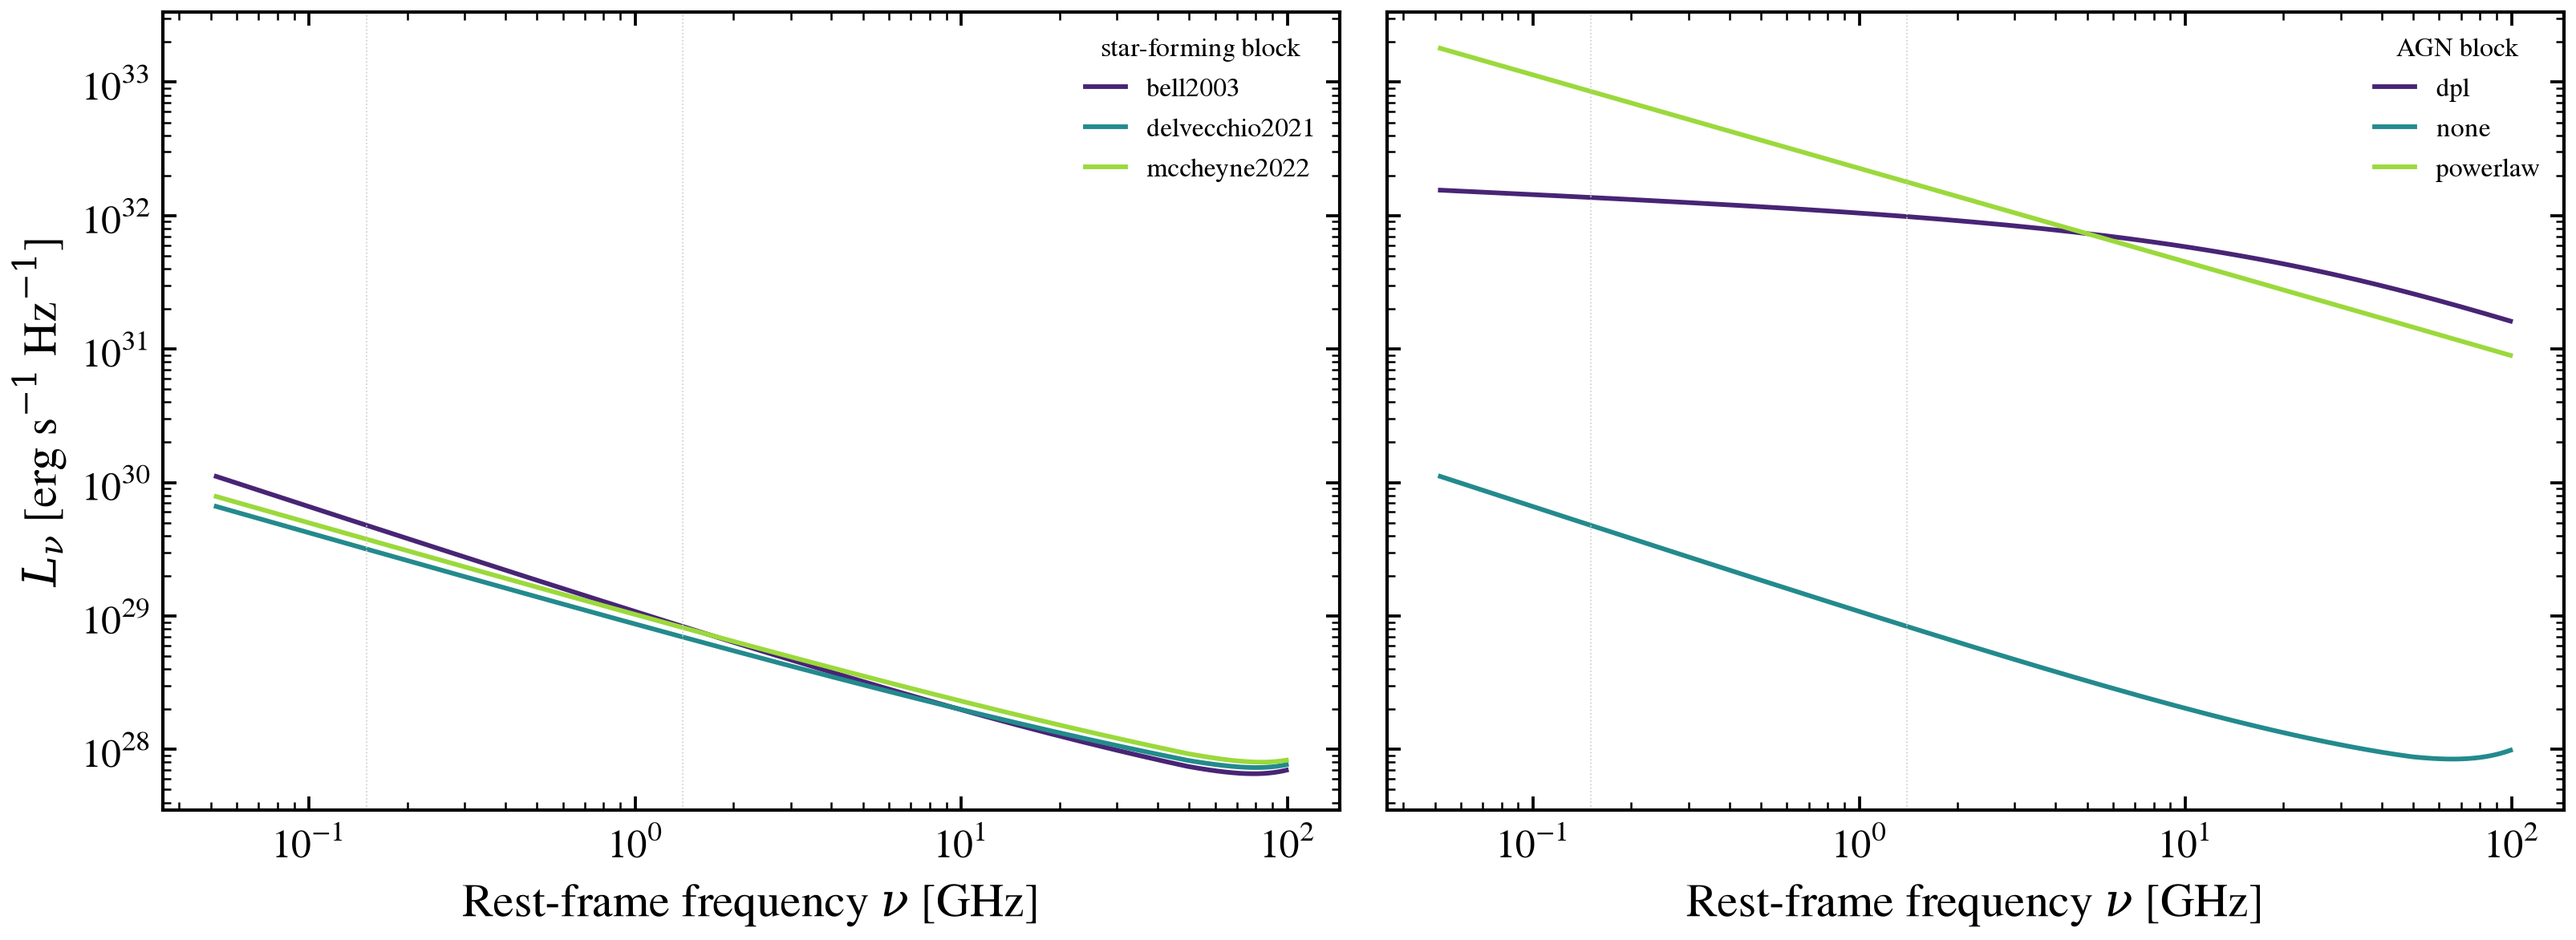
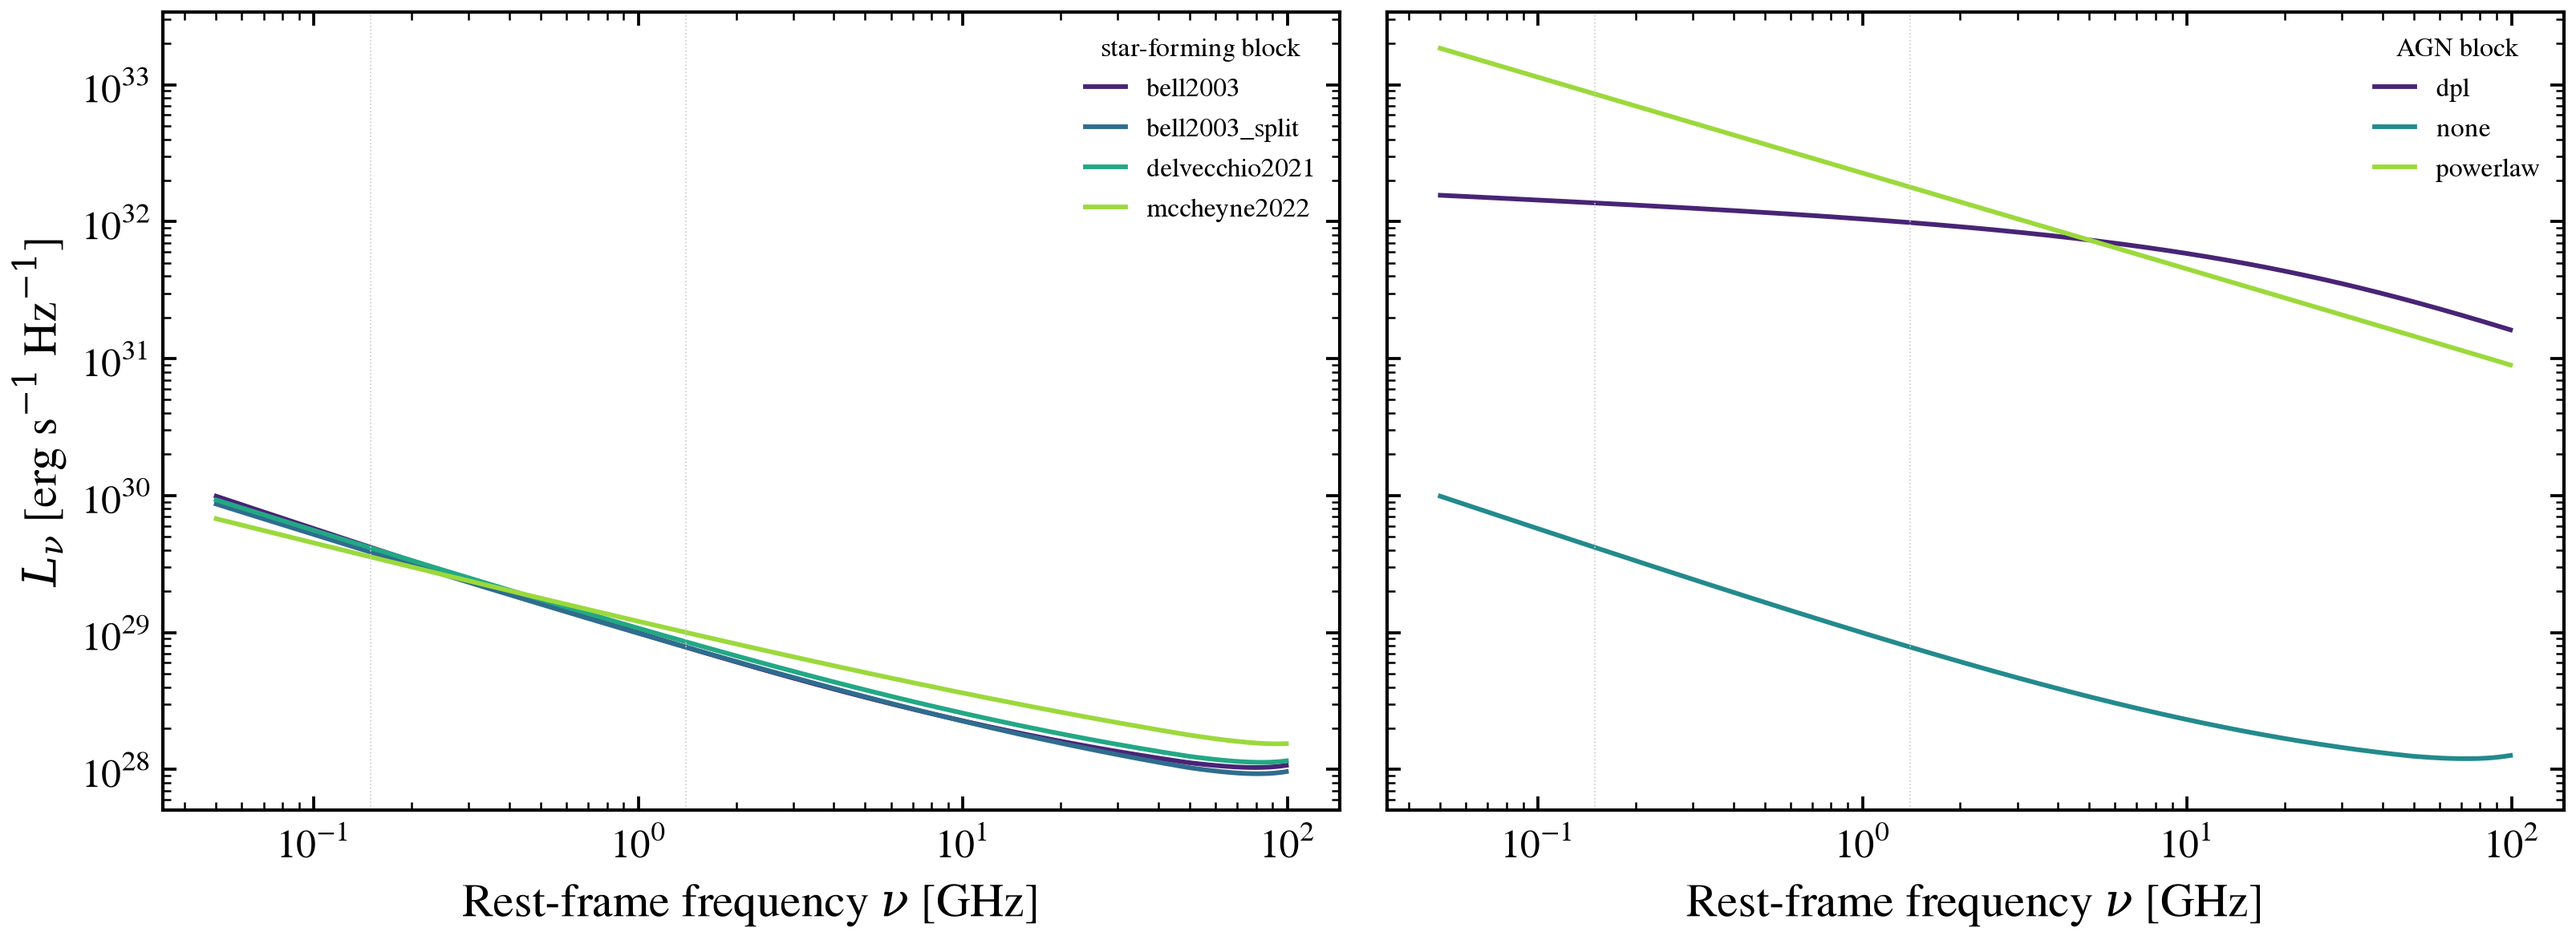
docs(gallery): regenerate the radio family comparison from the revised example
The example's prose and the calibrations it plots changed (domain hold, Delvecchio
alpha 0.75, McCheyne pivot 10.45), so the committed gallery render is regenerated with
tools/regen_gallery.py.

Claude-Session: https://claude.ai/code/session_01FFeGU64fvX6EwXYK28WHew

diff --git a/docs/auto_examples/radio/plot_radio_model_family_compare.py b/docs/auto_examples/radio/plot_radio_model_family_compare.py
@@ -4,17 +4,25 @@ Radio blocks: which q_IR calibration, and which AGN synchrotron shape
 
 The radio group is two independent choices — a star-forming block tied to the
 FIR-radio correlation, and an AGN block — so this compares them one at a time
-on the same galaxy.
+on the same galaxy (a constant-SFH galaxy with log total mass 10.5 at z = 0.05).
 
-(Left) The three q_IR calibrations, with AGN radio off. They disagree most
-where the correlation is least constrained: ~50% at 150 MHz, the LOFAR band
-that ``mccheyne2022`` was fit in, converging to a few percent by 10 GHz. The
-mass- and redshift-dependent calibrations sit below the fixed-q one for this
-galaxy, which is the whole point of preferring them.
+(Left) The four star-forming blocks, with AGN radio off, normalized to
+``bell2003``. The ``bell2003_split`` curve is the AGNfitter-rX split and is not
+quoted. ``delvecchio2021`` is 0.88, 1.09 and 1.21 times ``bell2003`` at
+150 MHz, 1.4 GHz and 10 GHz. ``mccheyne2022`` is 0.78, 1.17 and 1.48 times it
+at the same frequencies. The two mass- and redshift-dependent calibrations sit
+below the fixed-q one at 150 MHz and above it at 1.4 GHz and 10 GHz. Their
+largest-to-smallest ratio across the three total-q blocks (``bell2003``,
+``delvecchio2021``, ``mccheyne2022``) is 29 % at 150 MHz, 17 % at 1.4 GHz and 49 % at
+10 GHz, so the spread is largest at the high-frequency end.
 
-(Right) The AGN blocks, on a radio-loud AGN. ``dpl`` bends — it is a broken
-double power-law with an exponential aging cutoff — while ``powerlaw`` keeps
-one slope, so they separate toward high frequency rather than in normalization.
+(Right) The AGN blocks, on a radio-loud AGN (``loudness`` = 2) with ``bell2003``
+star formation. ``dpl`` bends: it is a broken double power law with an
+exponential synchrotron-aging cutoff. ``powerlaw`` keeps one slope. The two
+cross near 5 GHz, where their ratio is 1.00. Below that ``dpl`` is lower (0.16
+at 150 MHz, 0.55 at 1.4 GHz) and above it higher (1.30 at 10 GHz, 1.81 at
+100 GHz). The AGN block therefore changes the spectral shape, not only the
+normalization.
 ``none`` is star-forming synchrotron alone.
 
 ``loudness`` is ``log10(L_5GHz / L_B)``, so 0 is the radio-quiet boundary and
@@ -52,7 +60,7 @@ DUST = {
 }
 # dale2014_cigale: this example enables the radio component, and plain
 # dale2014 embeds its own SF radio continuum — the pair is refused at
-# build as a double-count (#1970).
+# build as a double-count.
 DUST_EMISSION = {"type": "dale2014_cigale", "all_params": tengri.Fixed(tengri.DEFAULT)}
 AGN = {
     "type": "composable",

diff --git a/docs/auto_examples/radio/plot_radio_model_family_compare.rst b/docs/auto_examples/radio/plot_radio_model_family_compare.rst
@@ -23,17 +23,25 @@ Radio blocks: which q_IR calibration, and which AGN synchrotron shape
 
 The radio group is two independent choices — a star-forming block tied to the
 FIR-radio correlation, and an AGN block — so this compares them one at a time
-on the same galaxy.
+on the same galaxy (a constant-SFH galaxy with log total mass 10.5 at z = 0.05).
 
-(Left) The three q_IR calibrations, with AGN radio off. They disagree most
-where the correlation is least constrained: ~50% at 150 MHz, the LOFAR band
-that ``mccheyne2022`` was fit in, converging to a few percent by 10 GHz. The
-mass- and redshift-dependent calibrations sit below the fixed-q one for this
-galaxy, which is the whole point of preferring them.
+(Left) The four star-forming blocks, with AGN radio off, normalized to
+``bell2003``. The ``bell2003_split`` curve is the AGNfitter-rX split and is not
+quoted. ``delvecchio2021`` is 0.88, 1.09 and 1.21 times ``bell2003`` at
+150 MHz, 1.4 GHz and 10 GHz. ``mccheyne2022`` is 0.78, 1.17 and 1.48 times it
+at the same frequencies. The two mass- and redshift-dependent calibrations sit
+below the fixed-q one at 150 MHz and above it at 1.4 GHz and 10 GHz. Their
+largest-to-smallest ratio across the three total-q blocks (``bell2003``,
+``delvecchio2021``, ``mccheyne2022``) is 29 % at 150 MHz, 17 % at 1.4 GHz and 49 % at
+10 GHz, so the spread is largest at the high-frequency end.
 
-(Right) The AGN blocks, on a radio-loud AGN. ``dpl`` bends — it is a broken
-double power-law with an exponential aging cutoff — while ``powerlaw`` keeps
-one slope, so they separate toward high frequency rather than in normalization.
+(Right) The AGN blocks, on a radio-loud AGN (``loudness`` = 2) with ``bell2003``
+star formation. ``dpl`` bends: it is a broken double power law with an
+exponential synchrotron-aging cutoff. ``powerlaw`` keeps one slope. The two
+cross near 5 GHz, where their ratio is 1.00. Below that ``dpl`` is lower (0.16
+at 150 MHz, 0.55 at 1.4 GHz) and above it higher (1.30 at 10 GHz, 1.81 at
+100 GHz). The AGN block therefore changes the spectral shape, not only the
+normalization.
 ``none`` is star-forming synchrotron alone.
 
 ``loudness`` is ``log10(L_5GHz / L_B)``, so 0 is the radio-quiet boundary and
@@ -42,7 +50,7 @@ the 2.0 used here is a radio-loud source; its prior runs to 4. Passing 100
 
 Reference: Bell+2003; Delvecchio+2021; McCheyne+2022 (q_IR calibrations).
 
-.. GENERATED FROM PYTHON SOURCE LINES 26-126
+.. GENERATED FROM PYTHON SOURCE LINES 34-134
 
 
 
@@ -52,8 +60,21 @@ Reference: Bell+2003; Delvecchio+2021; McCheyne+2022 (q_IR calibrations).
    :class: sphx-glr-single-img
 
 
+.. rst-class:: sphx-glr-script-out
+
+ .. code-block:: none
+
+    /tengri/src/tengri/forward/sed_model.py:12700: UserWarning: radio sf='delvecchio2021': the declared support reaches z down to 0.05 (calibrated from 0.1). The Delvecchio+2021 (Sect. 2) relation is held at the sample edge there and is not extrapolated, so q is constant beyond that edge.
+      _validate_radio_firrc_domain(spec)
+    /tengri/src/tengri/forward/sed_model.py:12700: UserWarning: radio sf='mccheyne2022': the declared support reaches log M* down to 10.24 (calibrated from 10.45). The McCheyne+2022 (Sect. 5.2) relation is held at the sample edge there and is not extrapolated, so q is constant beyond that edge.
+      _validate_radio_firrc_domain(spec)
 
 
+
+
+
+
+|
 
 .. code-block:: Python
 
@@ -86,7 +107,7 @@ Reference: Bell+2003; Delvecchio+2021; McCheyne+2022 (q_IR calibrations).
     }
     # dale2014_cigale: this example enables the radio component, and plain
     # dale2014 embeds its own SF radio continuum — the pair is refused at
-    # build as a double-count (#1970).
+    # build as a double-count.
     DUST_EMISSION = {"type": "dale2014_cigale", "all_params": tengri.Fixed(tengri.DEFAULT)}
     AGN = {
         "type": "composable",
@@ -161,7 +182,7 @@ Reference: Bell+2003; Delvecchio+2021; McCheyne+2022 (q_IR calibrations).
 
 .. rst-class:: sphx-glr-timing
 
-   **Total running time of the script:** (0 minutes 7.168 seconds)
+   **Total running time of the script:** (0 minutes 55.323 seconds)
 
 
 .. _sphx_glr_download_auto_examples_radio_plot_radio_model_family_compare.py:
